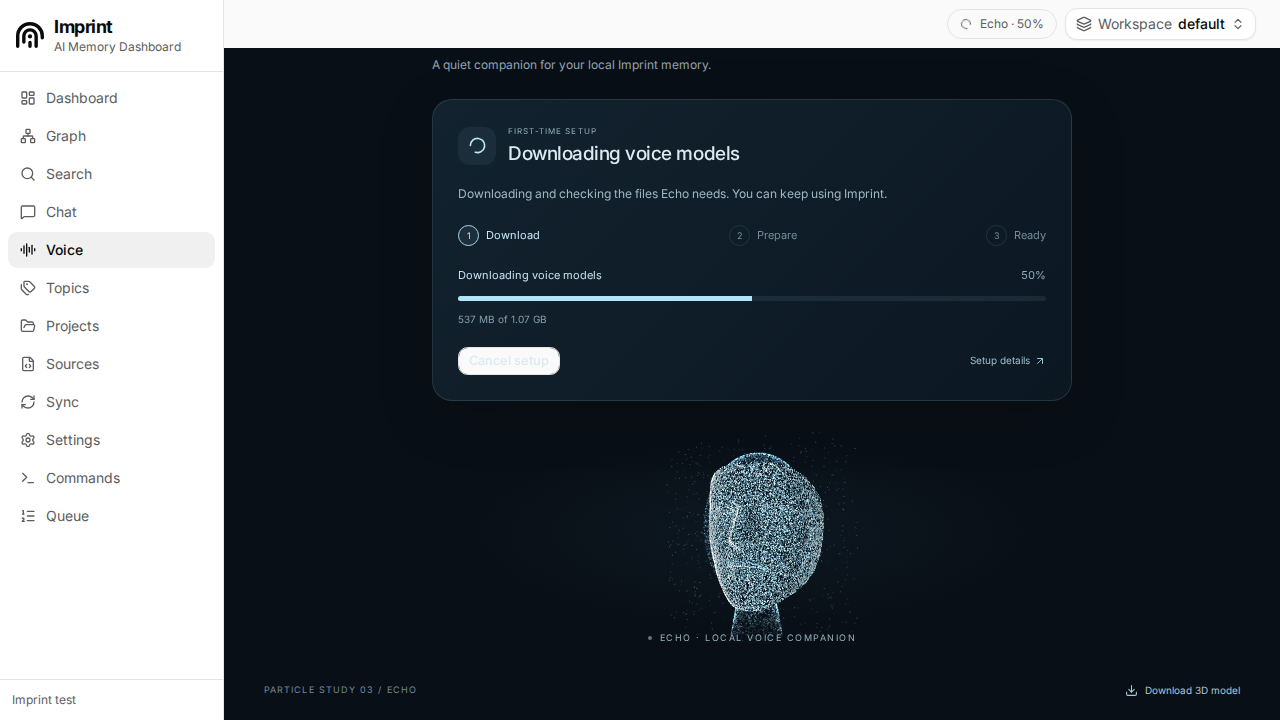
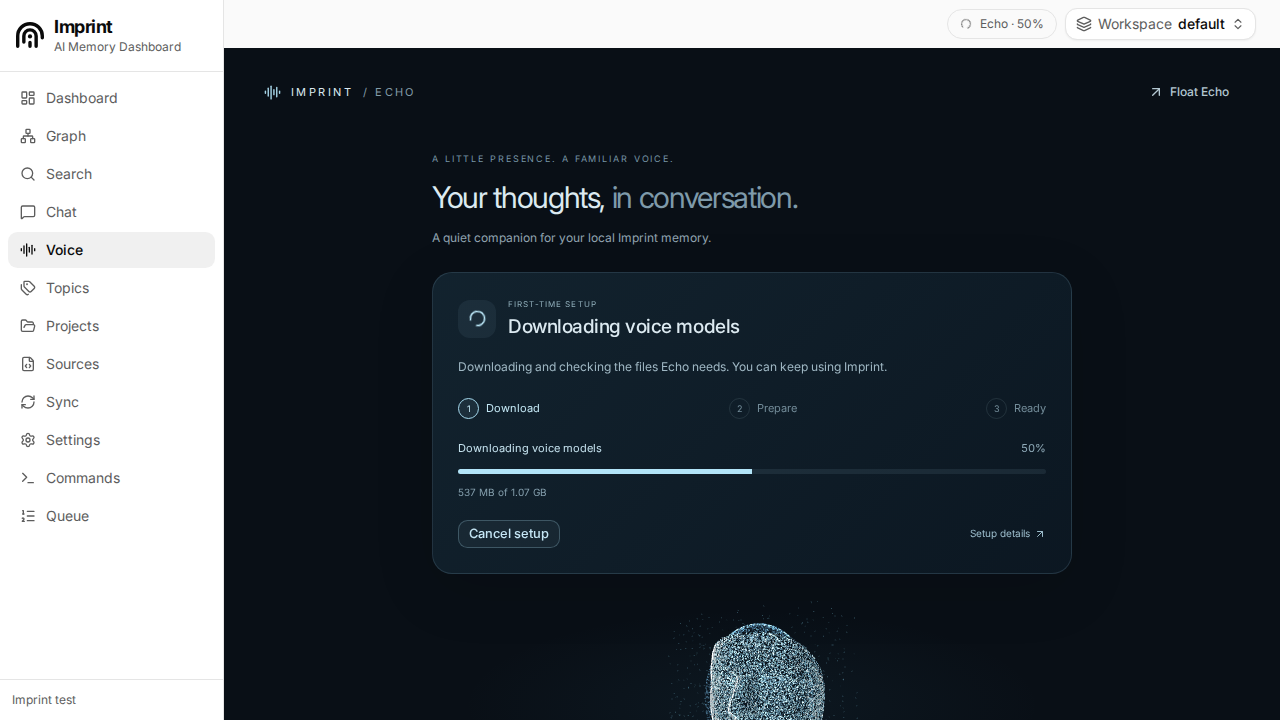
fix(ui): keep Echo setup cancellation readable on the dark panel

diff --git a/imprint/ui/src/styles/voice.css b/imprint/ui/src/styles/voice.css
@@ -45,6 +45,8 @@
 .echo-setup-facts > span { display: inline-flex; align-items: center; gap: 6px; }
 .echo-setup-actions { display: flex; align-items: center; justify-content: space-between; flex-wrap: wrap; gap: 12px; }
 .echo-setup-actions a { display: inline-flex; align-items: center; gap: 4px; font-size: 10px; color: #9cbdcc; }
+.echo-setup-actions > button:not(.echo-setup-download) { background: #a7d8ee0d; border-color: #a7d8ee44; color: #c5e6f5; }
+.echo-setup-actions > button:not(.echo-setup-download):hover { background: #a7d8ee20; }
 .echo-setup-download { background: #caeafa!important; color: #0b2532!important; border: 0; }
 .echo-setup-download:hover { background: #e2f5ff!important; }
 .echo-setup-error { margin: 16px 0; font-size: 12px; line-height: 1.7; color: #f0bfb7; }
